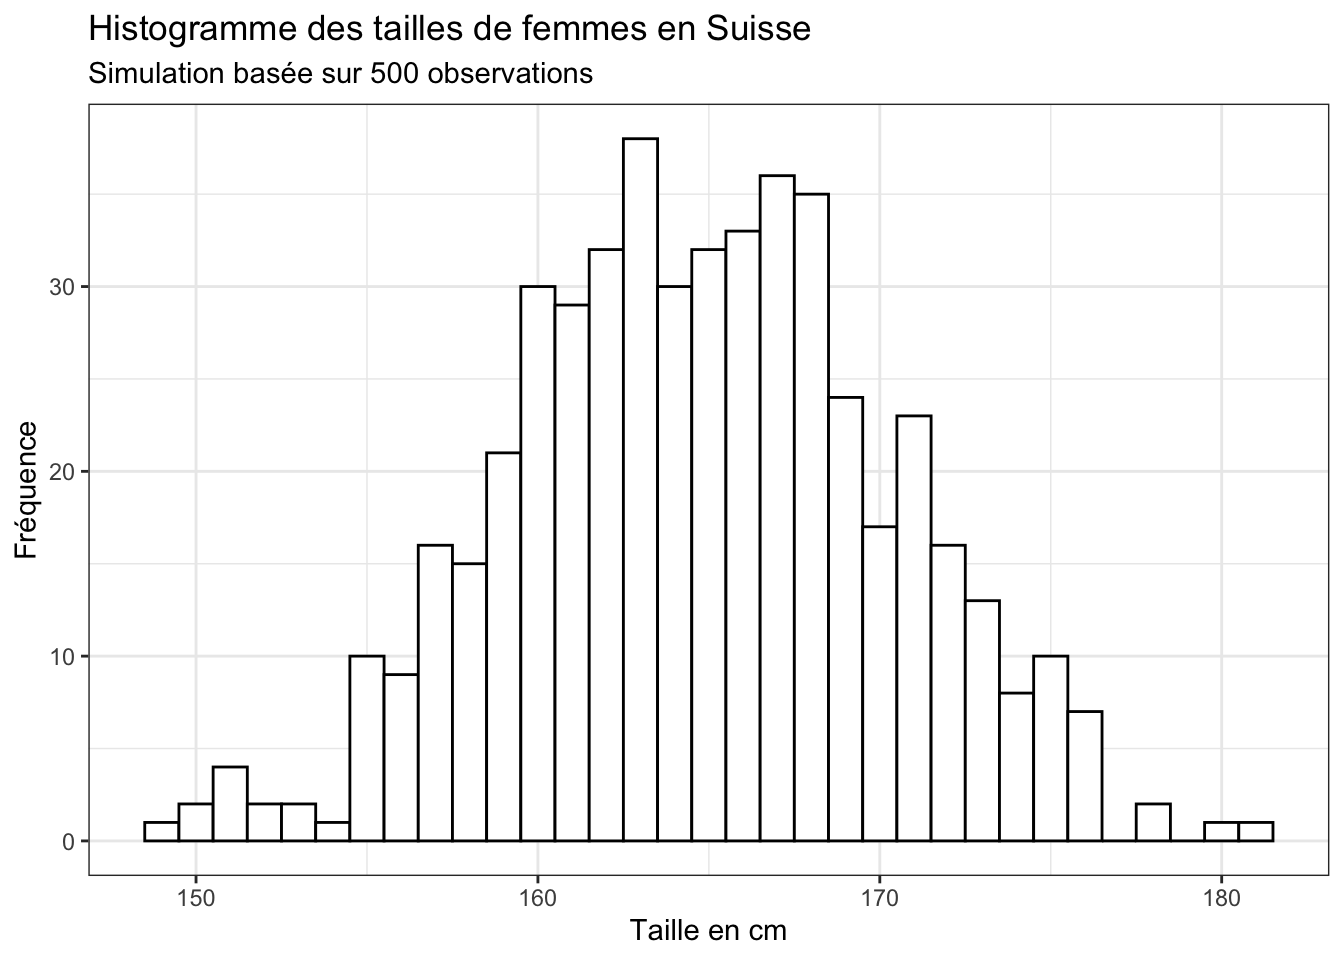
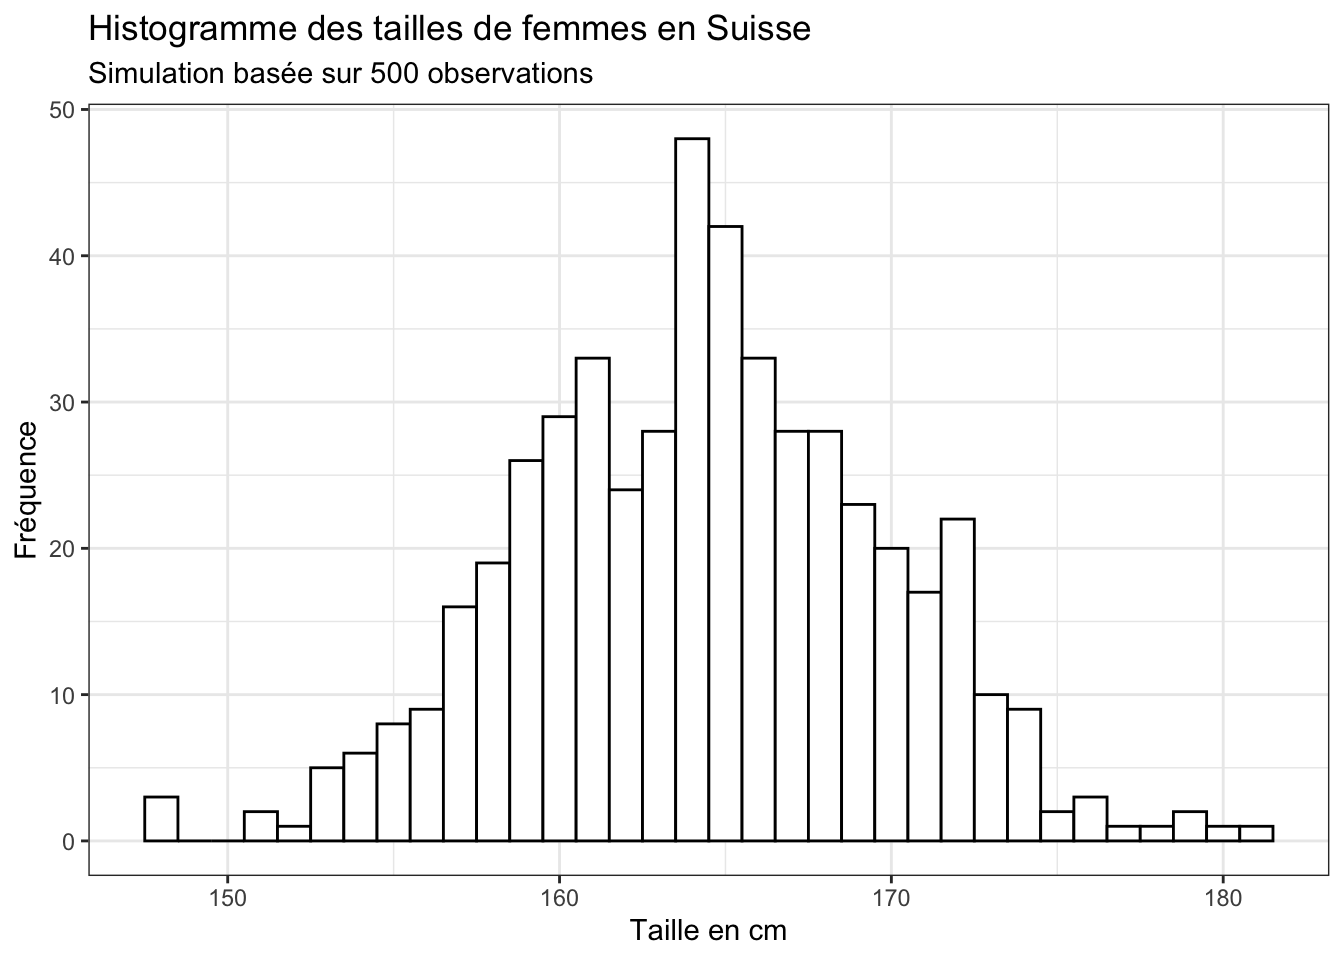
session 8 v2

diff --git a/index.html b/index.html
@@ -125,6 +125,7 @@ pre > code.sourceCode > span > a:first-child::before { text-decoration: underlin
   <li><a href="#manipuler-les-données-avec-dplyr" id="toc-manipuler-les-données-avec-dplyr" class="nav-link" data-scroll-target="#manipuler-les-données-avec-dplyr">Manipuler les données avec <code>dplyr</code></a></li>
   <li><a href="#devoir-pour-session-8-et-infos-questionnaireproblem-set-3" id="toc-devoir-pour-session-8-et-infos-questionnaireproblem-set-3" class="nav-link" data-scroll-target="#devoir-pour-session-8-et-infos-questionnaireproblem-set-3">Devoir pour Session 8 et infos questionnaire/Problem Set 3</a></li>
   </ul></li>
+  <li><a href="#session-8-cours-en-auto-apprentissage" id="toc-session-8-cours-en-auto-apprentissage" class="nav-link" data-scroll-target="#session-8-cours-en-auto-apprentissage">Session 8 (cours en auto-apprentissage)</a></li>
   </ul>
 </nav>
 </div>
@@ -1374,9 +1375,9 @@ Astuce
 <table class="table">
 <caption>Les couches d’un graphique ggplot</caption>
 <colgroup>
-<col style="width: 31%">
-<col style="width: 29%">
 <col style="width: 38%">
+<col style="width: 53%">
+<col style="width: 8%">
 </colgroup>
 <thead>
 <tr class="header">
@@ -1727,7 +1728,7 @@ Attention
 <span id="cb100-5"><a href="#cb100-5" aria-hidden="true" tabindex="-1"></a></span>
 <span id="cb100-6"><a href="#cb100-6" aria-hidden="true" tabindex="-1"></a><span class="fu">head</span>(taille_f)</span></code><button title="Copy to Clipboard" class="code-copy-button"><i class="bi"></i></button></pre></div>
 <div class="cell-output cell-output-stdout">
-<pre><code>[1] 161.1955 156.8715 173.0165 159.7963 172.5715 172.6015</code></pre>
+<pre><code>[1] 161.1681 162.2840 165.1902 170.7078 164.9873 170.9400</code></pre>
 </div>
 <div class="sourceCode cell-code" id="cb102"><pre class="sourceCode r code-with-copy"><code class="sourceCode r"><span id="cb102-1"><a href="#cb102-1" aria-hidden="true" tabindex="-1"></a><span class="co"># stocker taille_f comme objet de type 'data.frame'</span></span>
 <span id="cb102-2"><a href="#cb102-2" aria-hidden="true" tabindex="-1"></a>taille_f <span class="ot">&lt;-</span> <span class="fu">as.data.frame</span>(taille_f)</span>
@@ -2407,9 +2408,13 @@ Astuce
 <li><p>Le matériel de session 8, la deuxième partie de la manipulation de données, sera accessible sur ce site à partir du 17 avril.</p></li>
 <li><p>Assurez-vous d’avoir <strong>rempli le questionnaire avant la date limite</strong> (<strong>19 avril 2024 à 23h59</strong>). Tou(te)s les étudiant(e)s qui auront rempli le questionnaire à temps recevront 2 points de bonus pour le problème set 4 (10% des points).</p></li>
 <li><p>Si vous avez des difficultés à accéder au questionnaire via le lien personnalisé qui vous a été envoyé par e-mail : Essayez à nouveau avec différents navigateurs, sur votre téléphone portable et désactivez les éventuels ad-blockers. Si nécessaire, veuillez contacter l’enseignant afin de recevoir un nouveau lien par e-mail.</p></li>
-<li><p>Dans deux semaines, les 24 et 25 avril, aura lieu <strong>Problem Set 3</strong>. Il portera principalement sur les contenus des sessions 7 et 8 (manipulation de données). Comblez vous-même les éventuelles lacunes de vos connaissances (p.&nbsp;ex. configurer correctement le répertoire de travail, utiliser l’opérateur d’assignation <code>&lt;-</code>, etc.) Assurez-vous de pouvoir lire correctement les fichiers CSV dans RStudio, car cela sera nécessaire pour résoudre l’ensemble de problèmes 3. # Session 8 (cours en auto-apprentissage) <strong>Sujet : Manipuler les données (partie 2)</strong> Le matériel de cette session sera mis à disposition ici ultérieurement.</p></li>
+<li><p>Dans deux semaines, les 24 et 25 avril, aura lieu <strong>Problem Set 3</strong>. Il portera principalement sur les contenus des sessions 7 et 8 (manipulation de données). Comblez vous-même les éventuelles lacunes de vos connaissances (p.&nbsp;ex. configurer correctement le répertoire de travail, utiliser l’opérateur d’assignation <code>&lt;-</code>, etc.) Assurez-vous de pouvoir lire correctement les fichiers CSV dans RStudio, car cela sera nécessaire pour résoudre l’ensemble de problèmes 3.</p></li>
 </ul>
 </section>
+</section>
+<section id="session-8-cours-en-auto-apprentissage" class="level1">
+<h1>Session 8 (cours en auto-apprentissage)</h1>
+<p><strong>Sujet : Manipuler les données (partie 2)</strong> Le matériel de cette session sera mis à disposition ici ultérieurement.</p>
 </section>
 
 <div id="quarto-appendix" class="default"><section class="quarto-appendix-contents" id="quarto-reuse"><h2 class="anchored quarto-appendix-heading">Reuse</h2><div class="quarto-appendix-contents"><div>MIT</div></div></section></div></main>
